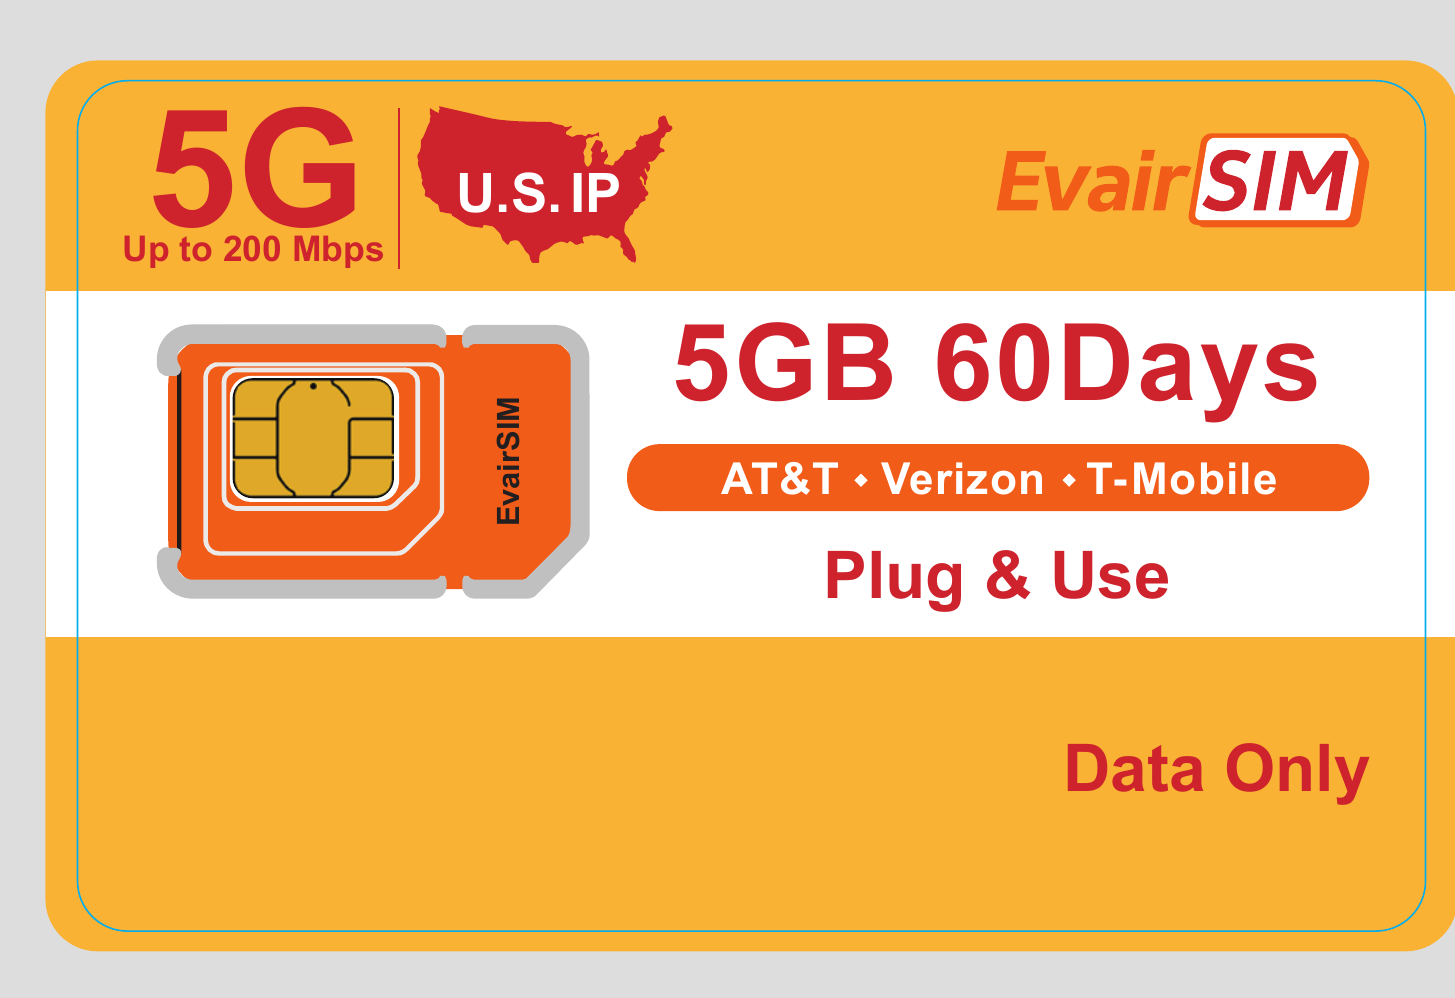
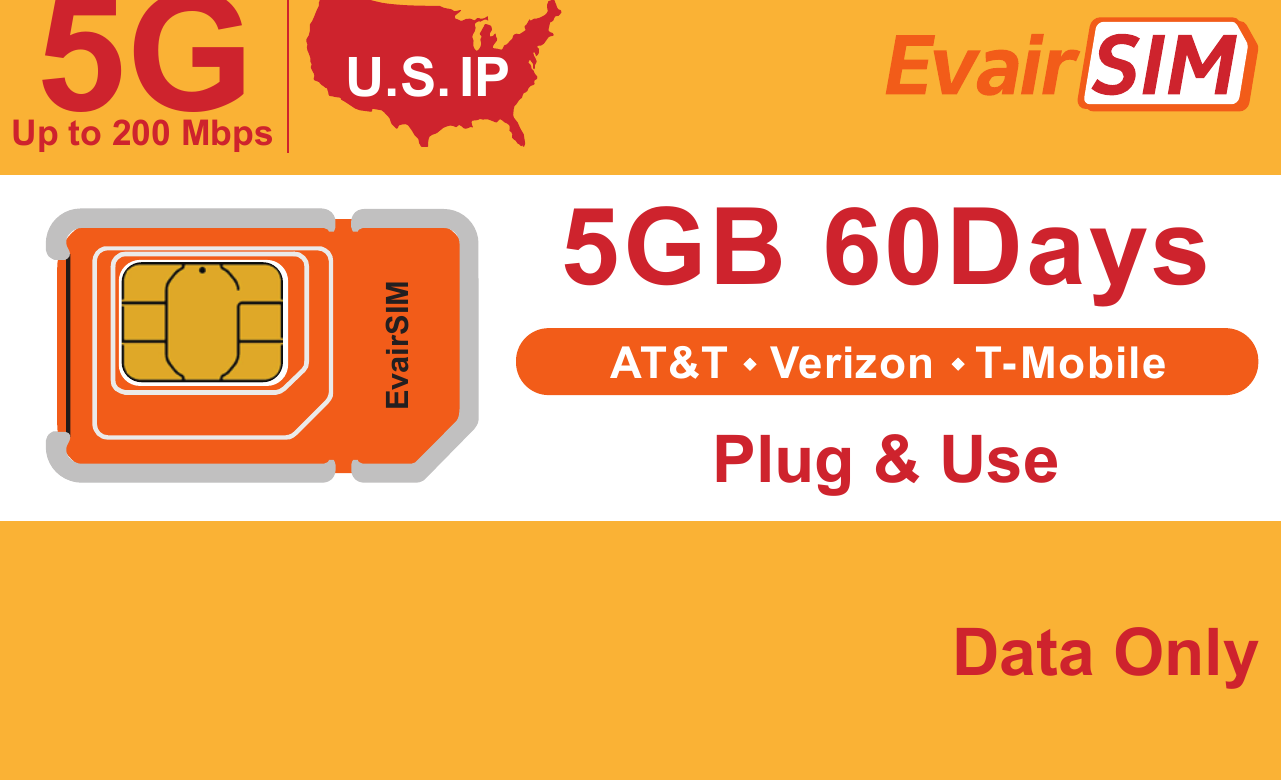
fix(website): trim cyan die-cut guide lines from EvairSIM card hero photo
Detected the inner and outer cyan crop guides in the supplier PDF
artwork and re-cropped strictly inside the inner guide so the visible
hero photo is just the printed card face with no print marks.

diff --git a/views/MarketingPage.tsx b/views/MarketingPage.tsx
@@ -132,8 +132,8 @@ const MarketingPage: React.FC = () => {
                                 <img
                                     src="/evairsim-card-front.png"
                                     alt="EvairSIM US 5G travel SIM card — AT&T, Verizon, T-Mobile, plug & use"
-                                    width={1455}
-                                    height={998}
+                                    width={1281}
+                                    height={780}
                                     className="relative w-full h-auto rounded-2xl shadow-xl"
                                     loading="eager"
                                 />
@@ -147,8 +147,8 @@ const MarketingPage: React.FC = () => {
                             <img
                                 src="/evairsim-card-front.png"
                                 alt="EvairSIM US 5G travel SIM card — AT&T, Verizon, T-Mobile, plug & use"
-                                width={1455}
-                                height={998}
+                                width={1281}
+                                height={780}
                                 className="relative w-full h-auto rounded-2xl shadow-2xl shadow-orange-500/20"
                                 loading="eager"
                             />
